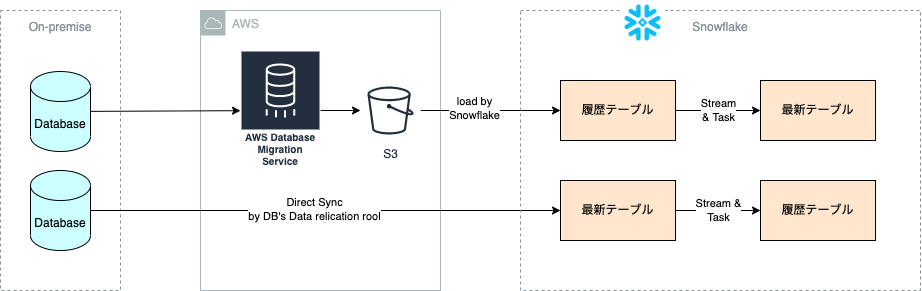
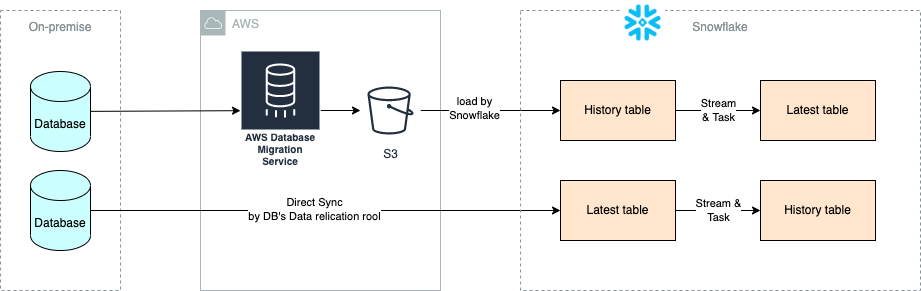
add

diff --git a/articles/2022-10-07-snowflake-cdc-eng.md b/articles/2022-10-07-snowflake-cdc-eng.md
@@ -1,0 +1,70 @@
+---
+title: "Why Snowpipe is so cheap but user managed warehouse is exxpensive for high frequent data loading to Snowflake table?"
+emoji: "❄"
+type: "tech"
+topics: [snowflake]
+published: false
+---
+
+# 記事の背景
+
+以前、RDBのデータベースを Snowflake にレプリケーションする際に AWS DMS と Snowpipe を使うアプローチを紹介しました。
+https://zenn.dev/yohei/articles/2021-04-24-snowflake-dms-rds
+
+![DMS snowpipe](https://storage.googleapis.com/zenn-user-upload/3ab8b4ca834d-20220928.png)
+
+このアプローチは以下の理由により、AWS を使っている場合はよく思いつくアプローチです。
+
+* DMS は AWS 公式のデータベースマイグレーションサービス。
+* DMS は公式に Snowflake をサポートしていないが、転送先として S3 を選択できる。
+* S3 に入ったファイルは Snowpipe で吸い上げできる。
+
+ただし、このアプローチをとった場合、Snowpipe でロードした先のテーブルにはデータソース側のテーブルの全履歴が残ります。
+データ分析をやる上では、全履歴ではなく主キーごとに最新のレコードが知りたいので、Snowflake 側で Stream と Task などを用いて、履歴からデータソース側のテーブルの最新状態を再現する必要があります（以下の図の上側のパイプライン）。
+
+![CDC](https://storage.googleapis.com/zenn-user-upload/4493c01e43a7-20221007.png)
+
+Snowipe は比較的安価なのでコスト効率が高いアプローチですが、単に同期したいだけなのに履歴を移行して、さらに元のテーブルを再現する必要がある点は開発効率が悪いとも思えます。
+
+データソース側の DB に付属したマイグレーションツールがたまたま Snowflake をサポートしていることに気付いたので、上の図の下側のパイプラインのように、直接、Snowflake に同期した方が良いと考え、PoCをやってみたところ、実はウェアハウスコストが予想より格段に高くなることに気付いたので、調査して今回の記事にしました。
+
+なお、下側のアプローチは、Fivetran など ETL の SaaS を使った場合でも起こりうる問題なので、特定の DB やツールの問題ではありません。
+
+# なぜ高頻度で書き込むとウェアハウス代が高くなったか？
+
+* (1) DMS と Snowpipe
+* (2) DB のマイグレツールで直接同期
+
+のウェアハウスの使われ方の違いを比較すると、(1) の方は Snowpipe を使っており、Snowflake 内部で管理されているウェアハウスが利用され、勝手にコスト最適になるように調整されていたため、非常にインフラコストが安くなっていました。Snowpipe のコスト面は以下のドキュメントを参照ください。
+
+https://docs.snowflake.com/en/user-guide/data-load-snowpipe-billing.html
+
+一方で、(2) の方は、ユーザ管理のウェアハウスをマイグレツールのユーザに割り当てることになるため、ツールがテーブルに書き込む際にユーザ管理のウェアハウスを起動することになります。
+
+このツールのウェアハウスは以下の設定になっていたため、高頻度（例えば、毎分）で書き込みを行うと、ウェアハウスが起動しっぱなしになっていました。また、自動停止待ち時間が過ぎるまでに次の書き込みが来ると、スケールポリシーにより、新しいクラスタが起動されていることもありました。
+
+* マルチクラスターウェアハウス・・・クラスタの数が複数
+* スケールポリシーはデフォルト・・・キューの待ち時間を最小にするため、なるべく新しいクラスタを立ち上げようとする
+* 自動停止待ち時間が15分
+
+Snowflake のウェアハウスコストは、データ量ではなく、ウェアハウスのサイズ * 起動してる総時間で決まります。よってデータ量が少量であっても、より多くのウェアハウスがより長く走ってしまうと、ウェアハウスコストがかさんでしまいます。
+
+ウェアハウスのコスト計算の仕組みは以下が参考になるので、参照ください。
+
+https://docs.snowflake.com/en/user-guide/credits.html
+https://docs.snowflake.com/en/user-guide/warehouses-considerations.html
+
+# では ETL のウェアハウスコストを下げるにはどうしたら？
+
+Snowflake のウェアハウスコストは、データ量ではなく、ウェアハウスのサイズ * 起動してる総時間で決まる点は、先ほど説明しました。
+
+この価格モデルだと少量のデータを処理するのは非常に効率が悪いので、本当にリアルタイムである必要があるのかよくよく考えて、更新頻度は下げた方が良いと思います（日次、毎時など）。その上で一気にデータを書き込み、終わったらウェアハウスを停止するのが良いでしょう。
+
+その際、以下は設定を変えられるので、コスト優先の場合は変えてもいいでしょう。ただし、あまりクラスタを起動させず、かつすぐにクラスタを停止させる設定にすると、性能は落ちるのでジョブのレイテンシは上がると思います。その点も検討に入れておくと良いでしょう。
+
+* スケールポリシーをエコノミーにする・・・なるべく新しいクラスタを立ち上げないようにする
+* 自動停止待ち時間を短くする
+
+# おわりに
+
+今回は、ETL ツールを使った場合のウェアハウスコストについて注意点を紹介しました。コスト最適化は日常的にやってるので、また気付いた知見あれば紹介します。

diff --git a/articles/2022-09-28-snowflake-cdc.md b/articles/2022-09-28-snowflake-cdc.md
@@ -1,7 +1,7 @@
 ---
 title: "ETL ツールで高頻度で Snowflake Table に書き込むときは Warehouse コストに気をつけよう"
 emoji: "❄"
-type: "tech" # tech: 技術記事 / idea: アイデア
+type: "tech" # tech: 技術記事 / idea: アイデ
 topics: [snowflake]
 published: true
 ---
